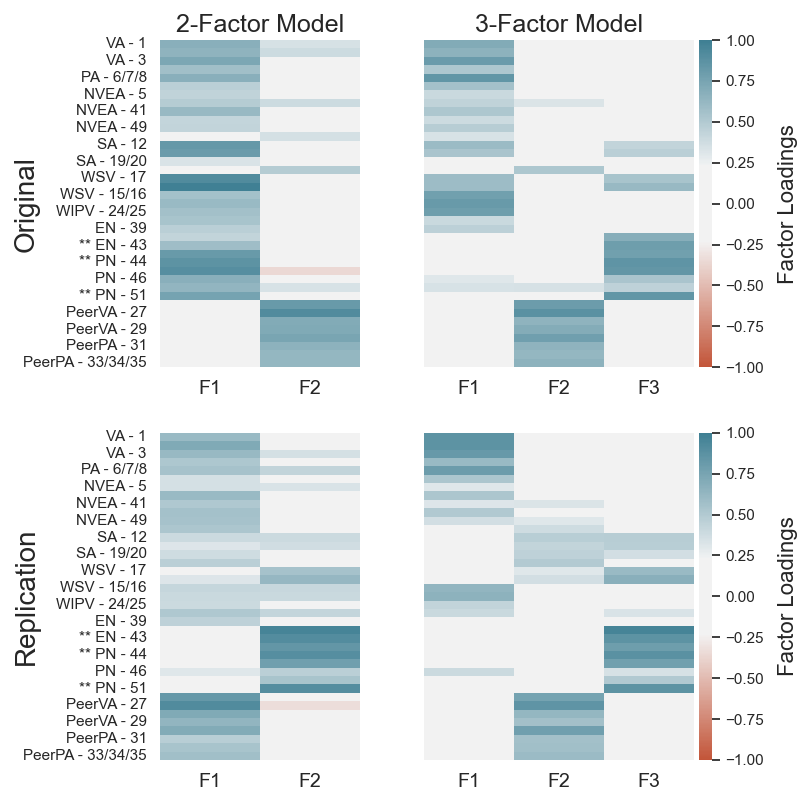
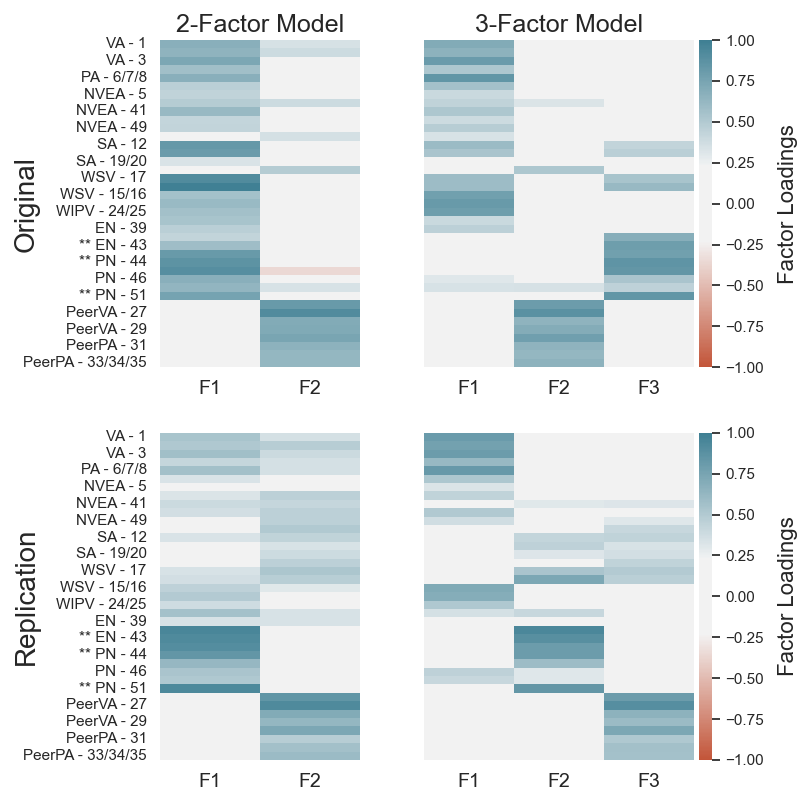
minor updates: (1) fix efa bug; (2) update efa figures; (3) minor manuscript edits

Changed region(s): [[0.1875, 0.5312, 0.4688, 0.9688], [0.5312, 0.6562, 0.875, 0.9688]]

diff --git a/manuscript/main.tex b/manuscript/main.tex
@@ -45,19 +45,19 @@
 
 \abstract{
 
-\textbf{Background}: Typically measures of childhood maltreatment collect information about several types of abuse and maltreatment. The subscales of the retrospective Maltreatment and Abuse Chronology of Exposure (MACE) scale measure 10 such types. Since different types of maltreatment often co-occur, it is not clear whether subscale measures can be used to reflect constructs unique from from overall maltreatment.
+\noindent \textbf{Background}: Typically measures of childhood maltreatment collect information about several types of abuse and maltreatment. The subscales of the retrospective Maltreatment and Abuse Chronology of Exposure (MACE) scale measure 10 such types. Since different types of maltreatment often co-occur, it is not clear whether subscale measures can be used to reflect constructs unique from from overall maltreatment.
 
 \hfill 
 
-\textbf{Methods}: Here, we investigated the factor structure of the MACE scale in two independent samples (N=1051 \& N=582). We used both confirmatory and exploratory item response modeling.
+\noindent \textbf{Methods}: Here, we investigated the factor structure of the MACE scale in two independent samples (N=1051 \& N=582). We used both confirmatory and exploratory item response modeling.
 
 \hfill
 
-\textbf{Results}: We found the MACE total score to be a reliable and valid measure of general maltreatment. Confirmatory item response models provided strong evidence for unidimensionality of the MACE, with the exception of a potential peer victimization factor. That is, most items in the MACE load on general factor and apart from peer victimization very little variance was explained by other subscales. Exploratory factor modeling further supported these findings. 
+\noindent \textbf{Results}: We found the MACE total score to be a reliable and valid measure of general maltreatment. Confirmatory item response models provided strong evidence for unidimensionality of the MACE, with the exception of a potential peer victimization factor. That is, most items in the MACE load on general factor and apart from peer victimization very little variance was explained by other subscales. Exploratory factor modeling further supported these findings. 
 
 \hfill
 
-\textbf{Conclusions}: The MACE is essentially a unidimensional scale. Apart from a separate peer victimization factor, researchers should refrain from using subscales data separately since they mostly reflect overall maltreatment.  
+\noindent \textbf{Conclusions}: The MACE is essentially a unidimensional scale. Apart from a separate peer victimization factor, researchers should refrain from using subscales data separately since they mostly reflect overall maltreatment.  
 \hfill \break
 }
 
@@ -165,7 +165,7 @@ The third model was motivated by a theoretical account of childhood maltreatment
     \label{fig:models}
 \end{figure}
 
-The fourth and final model proposes a more parsimonious structure of the MACE based on the content of its items. Items on the MACE can be organized according to the source of maltreatment: parents (or other adults in the home) and peers. Thus, we hypothesized there would be two factors underlying responses on the MACE: a primary maladaptive parenting factor and a secondary peer victimization factor. Based on preliminary model fitting, we also suspected the presence of a tertiary methods factor affecting the six reverse-scored items. We initially fit a bifactor model in which all items loaded onto a general maltreatment factor and one of three specific factors (maladaptive parenting, peer victimization, reverse-scoring); however, we observed vanishing loadings on the first specific factor. As such, we instead fit a bifactor S-1 model where all items load onto a general maltreatment factor, and the peer victimization \& reverse-scoring items additionally load onto their own specific factors (Figure \ref{fig:models}d). This model will be used to evaluate if the MACE can produce peer victimization reliable subscale scores distinguishable from general maltreatment. 
+The fourth and final model proposes a more parsimonious structure of the MACE based on the content of its items. Items on the MACE can be organized according to the source of maltreatment: parents (or other adults in the home) and peers. Thus, we hypothesized there would be two factors underlying responses on the MACE: a primary parental maltreatment factor and a secondary peer victimization factor. Based on preliminary model fitting, we also suspected the presence of a tertiary methods factor affecting the six reverse-scored items. We initially fit a bifactor model in which all items loaded onto a general maltreatment factor and one of three specific factors (parental maltreatment, peer victimization, reverse-scoring); however, we observed vanishing loadings on the first specific factor. As such, we instead fit a bifactor S-1 model where all items load onto a general maltreatment factor, and the peer victimization \& reverse-scoring items additionally load onto their own specific factors (Figure \ref{fig:models}d). This model will be used to evaluate if the MACE can produce peer victimization reliable subscale scores distinguishable from general maltreatment. 
 
 All confirmatory item factor models were estimated within a Bayesian framework using Hamiltonian Monte Carlo as implemented in Stan (v2.26; \citealt{carpenter2017stan}). For each model, four separate chains with randomized start values each took 3,000 samples from the posterior. The first 2,000 samples from each chain were discarded, so that 4,000 post-warmup samples from the posterior were retained. The $\hat{R}$ values for all parameters were less than 1.01, indicating acceptable convergence between chains, and there were no divergent transitions in any chain. 
 
@@ -318,7 +318,7 @@ Briefly, we note that the subscale scores formed by the reverse-scored items wer
 
 {\begin{spacing}{0.2} \hfill \\ \end{spacing}} \subsection{Exploratory factor analysis}
 
-The goodness-of-fit measures for the exploratory factor models to the response data by sample are summarized in Table \ref{tab:efa_diagnostics}. The fit indices indicated that all exploratory models provided an adequate fit to the data. The standardized factor loadings for the 2- and 3-factor solutions produced by the cf-quartimax rotation are presented in Figure \ref{fig:efa_cf}. (The corresponding factor loadings produced by the geomin rotation were qualitatively similar and are presented in Figure \ref{fig:efa_geomin}.) In the 2-factor solution for the original sample, we observed a primary maladaptive parenting factor and a secondary peer victimization factor. In contrast, the replication sample produced a primary maladaptive parenting/peer maltreatment factor with a secondary reverse-scoring factor. Neither 2-factor solution precisely resembled the threat-deprivation factor structure of confirmatory model 3.
+The goodness-of-fit measures for the exploratory factor models to the response data by sample are summarized in Table \ref{tab:efa_diagnostics}. The fit indices indicated that all exploratory models provided an adequate fit to the data. The standardized factor loadings for the 2- and 3-factor solutions produced by the cf-quartimax rotation are presented in Figure \ref{fig:efa_cf}. (The corresponding factor loadings produced by the geomin rotation were qualitatively similar and are presented in Figure \ref{fig:efa_geomin}.) In the 2-factor solution for the original sample, we observed a primary parental maltreatment factor and a secondary peer victimization factor. In contrast, the replication sample produced a primary parental maltreatment/peer maltreatment factor with a secondary reverse-scoring factor. Neither 2-factor solution precisely resembled the threat-deprivation factor structure of confirmatory model 3.
 
 \begin{figure}[t!]
     \centering
@@ -327,7 +327,7 @@ The goodness-of-fit measures for the exploratory factor models to the response d
     \label{fig:efa_cf}
 \end{figure}
 
-The 3-factor solution for each sample were similar. EFA produced a primary maladaptive parenting factor with secondary peer victimization and reverse-scoring factors. (Interestingly, items concerning sexual abuse loaded more strongly on the peer victimization scale in the replication sample, raising some questions about the replicability of the factor structures.) To conclude, the structure of both the 2- and 3-factor exploratory factor models resembled the bifactor S-1 model with two specific factors (model 4), providing further support for that model of the factor structure of the MACE. 
+The 3-factor solution for each sample were similar. EFA produced a primary parental maltreatment factor with secondary peer victimization and reverse-scoring factors. Interestingly, items concerning sexual abuse loaded more strongly on the peer victimization scale in the replication sample, raising some questions about the replicability of the factor structures. To conclude, the structure of both the 2- and 3-factor exploratory factor models resembled the bifactor S-1 model with two specific factors (model 4), providing further support for that model of the factor structure of the MACE. 
 
 \section{Discussion}
 
@@ -436,8 +436,8 @@ This discussion in turn raises a second question: whether it is reasonable for i
     Original    & 2-factor & 1876 (664) & 0.049 & 0.962 & 0.957 & 0.122 \\
                 & 3-factor & 1237 (627) & 0.036 & 0.981 & 0.977 & 0.105 \\
     \midrule
-    Replication & 2-factor & 1737 (664) & 0.052 & 0.961 & 0.957 & 0.108 \\
-                & 3-factor & 1227 (627) & 0.040 & 0.978 & 0.974 & 0.097 \\
+    Replication & 2-factor & 1612 (664) & 0.051 & 0.961 & 0.957 & 0.121 \\
+                & 3-factor & 1100 (627) & 0.037 & 0.981 & 0.977 & 0.111 \\
     \bottomrule
     \end{tabular}
     \caption{\normalfont Fit statistics for the exploratory factor models by sample. Notes: RMSEA = root mean square error of approximation; CFI = comparative fit index; TLI = Tucker-Lewis index; SRMR = standardized root mean square residual.}
